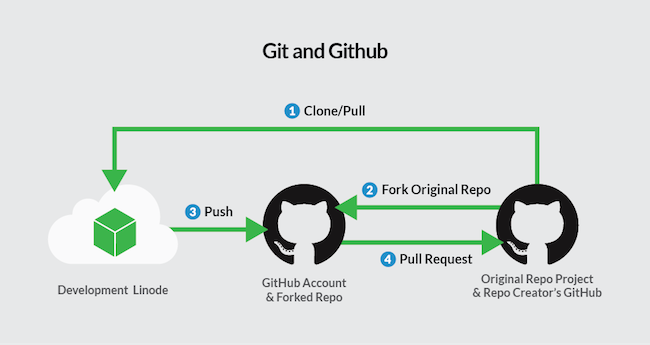
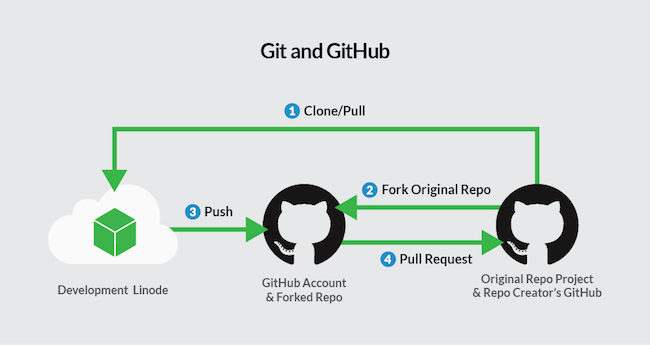
Graphic Swap

Changed region(s): [[0.4, 0.1159, 0.6154, 0.1739]]

diff --git a/docs/applications/development/developing-git-github.md b/docs/applications/development/developing-git-github.md
@@ -34,9 +34,9 @@ The directions below are for Debian or Ubuntu. For installation on Mac, Windows,
         git config --global user.email "example@example.com"
 
 
-    Now that Git has been installed, refer to the image below for help with using Git and Github together.
+    Now that Git has been installed, refer to the image below for help with using Git and GitHub together.
 
-    [![Workflow for using Git with Github.](/docs/assets/git-github-workflow-650w.png)](/docs/assets/git-github-workflow-1000w.png)
+    [![Workflow for using Git with GitHub.](/docs/assets/git-github-workflow-650w.png)](/docs/assets/git-github-workflow-1000w.png)
 
 ##Clone a Test Repository
 A repository, or repo, is a Git project. For tutorial purposes, there is a test repository setup on GitHub, which is listed below.
